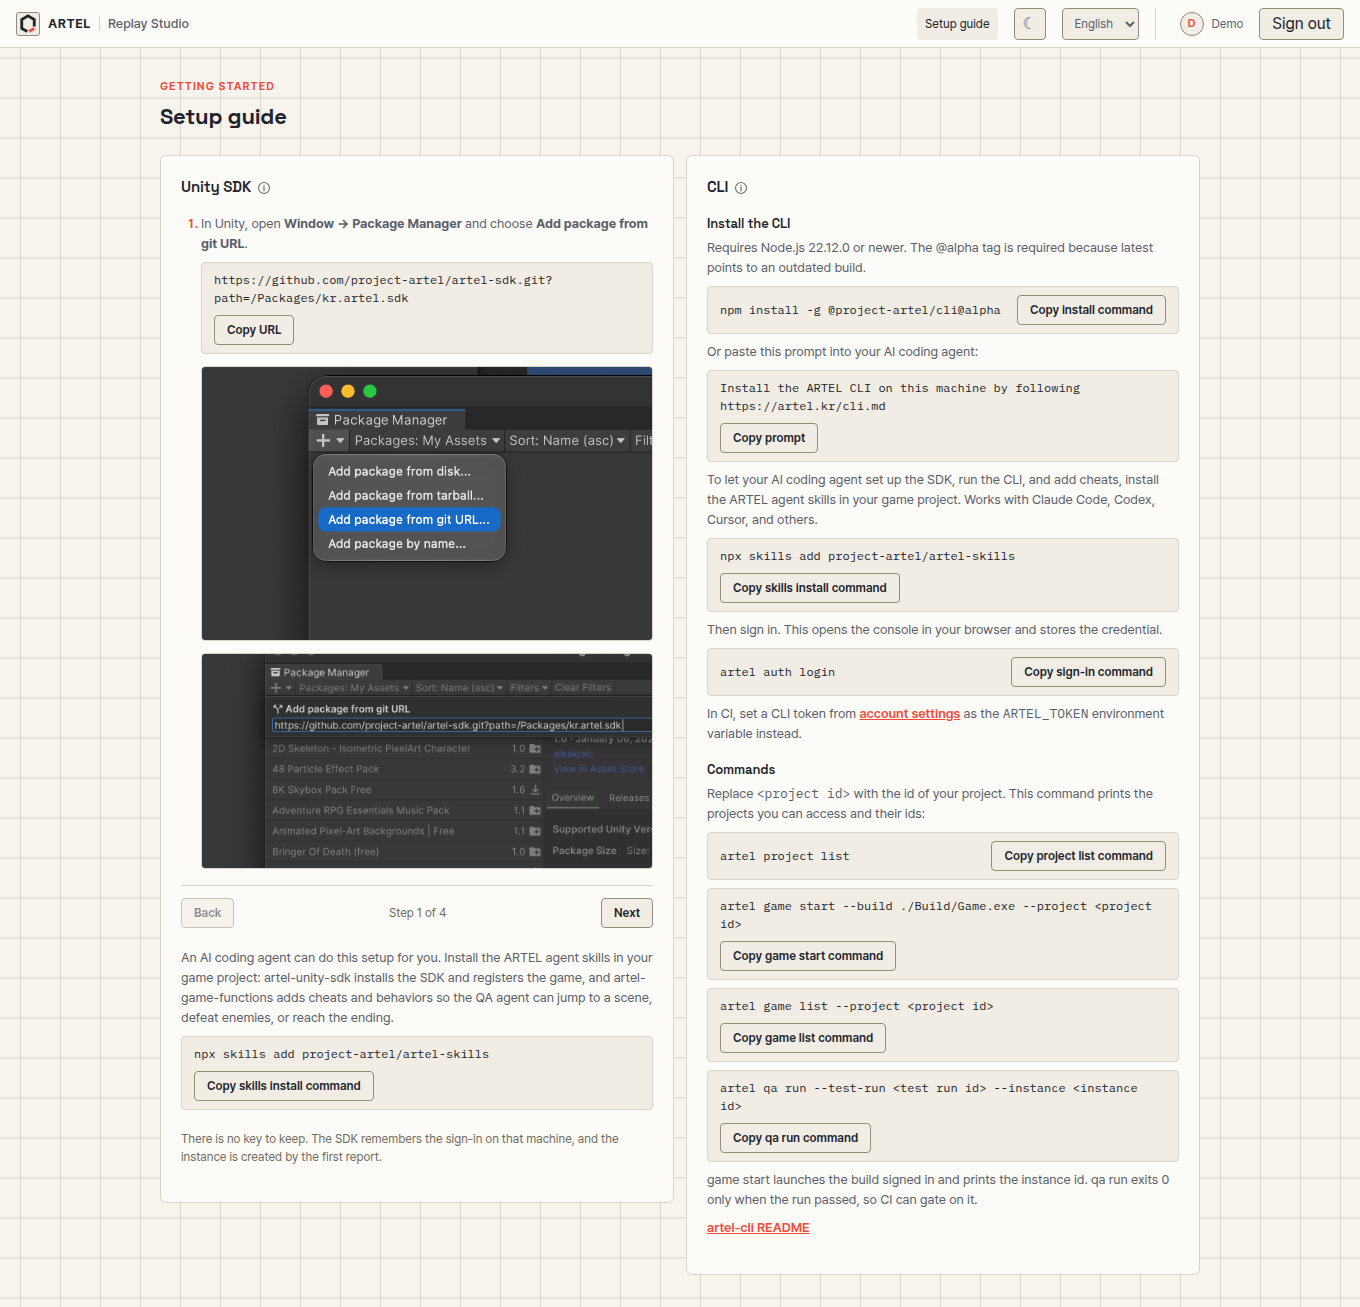
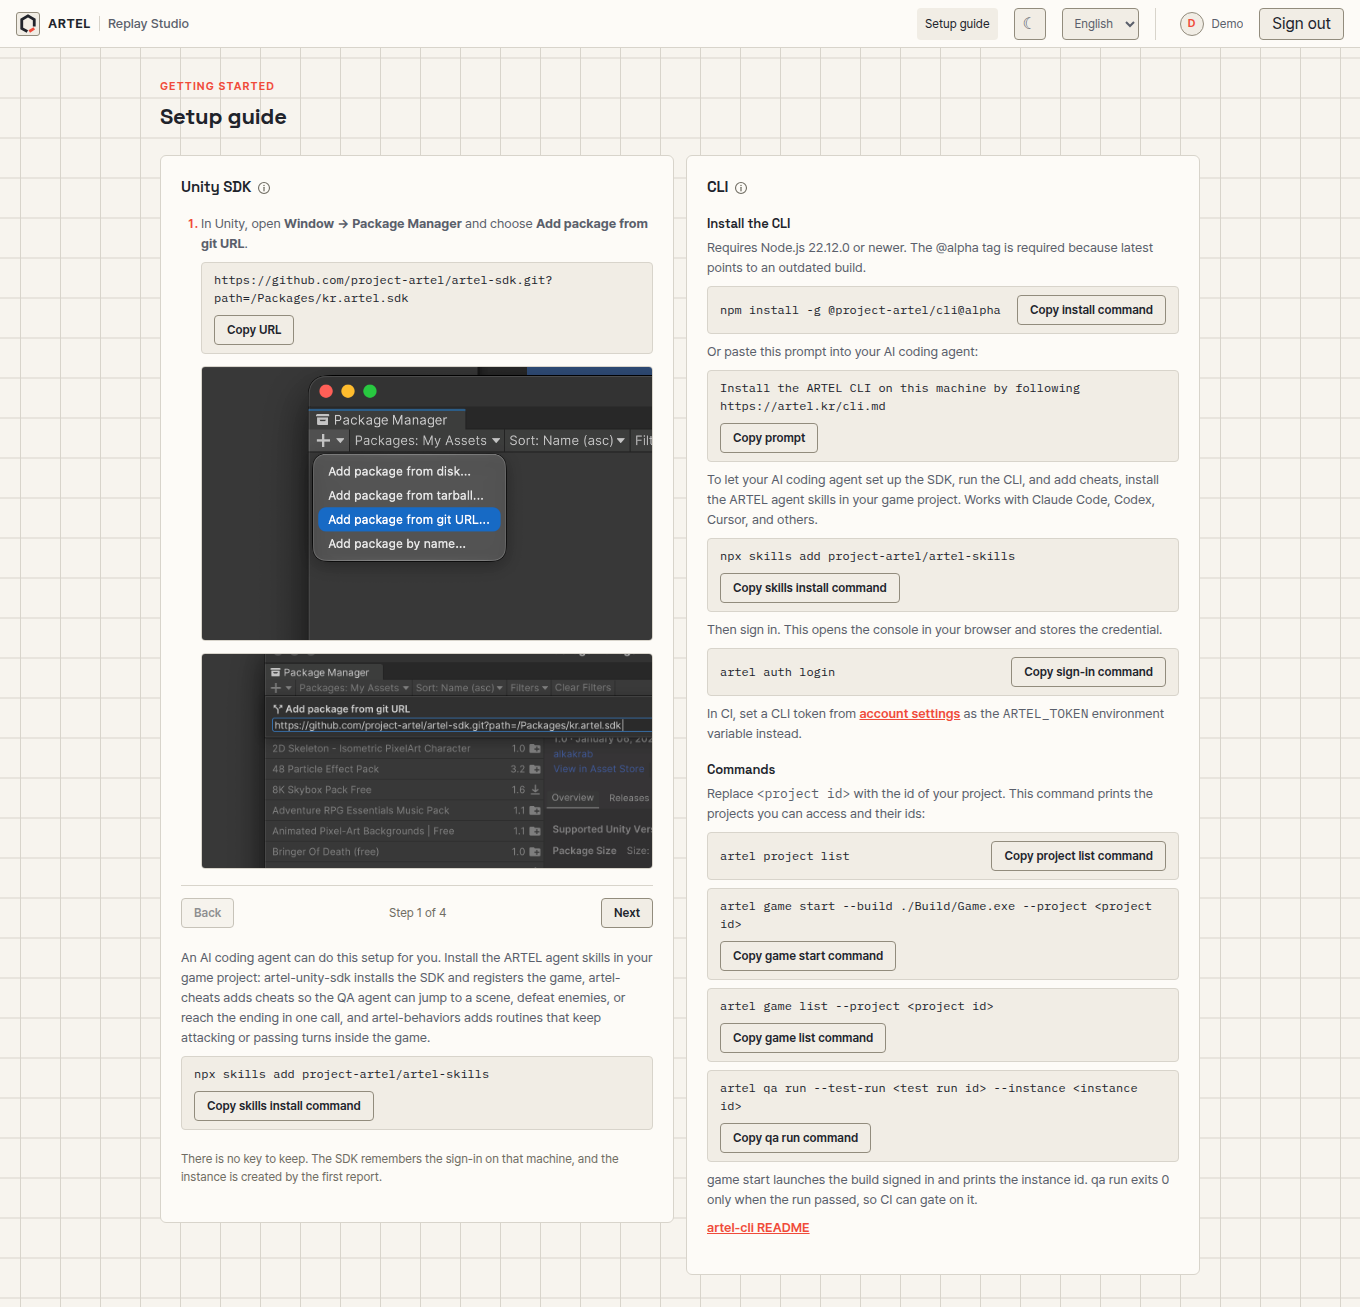
docs(setup): 설치 안내의 skills 이름을 artel-cheats, artel-behaviors 로 수정
artel-game-functions 가 artel-cheats 와 artel-behaviors 로 나뉘어 SDK 설치
안내 문구와 주석을 바꾸고, 설정 안내 화면 screen capture 2장을 다시 찍었다.

Jira: ARTEL-1094

Changed region(s): [[0.1235, 0.7345, 0.4941, 0.9487]]

diff --git a/src/i18n/messages/projects.ts b/src/i18n/messages/projects.ts
@@ -230,7 +230,7 @@ export const projectsEn = {
     shot4ProjectPickerAlt: 'The Artel SDK screen in the game listing projects to connect to.',
     shot4InstanceConnectedAlt: 'The game instance list in Artel showing the new instance as Connected.',
     skillsIntro:
-      'An AI coding agent can do this setup for you. Install the ARTEL agent skills in your game project: artel-unity-sdk installs the SDK and registers the game, and artel-game-functions adds cheats and behaviors so the QA agent can jump to a scene, defeat enemies, or reach the ending.',
+      'An AI coding agent can do this setup for you. Install the ARTEL agent skills in your game project: artel-unity-sdk installs the SDK and registers the game, artel-cheats adds cheats so the QA agent can jump to a scene, defeat enemies, or reach the ending in one call, and artel-behaviors adds routines that keep attacking or passing turns inside the game.',
     copySkills: 'Copy skills install command',
     skillsCopied: 'Skills install command copied.',
     note: 'There is no key to keep. The SDK remembers the sign-in on that machine, and the instance is created by the first report.',
@@ -661,7 +661,7 @@ export const projectsKo: Localized<typeof projectsEn> = {
     shot4ProjectPickerAlt: '게임 안의 Artel SDK 화면에 연결할 프로젝트 목록이 표시된 화면.',
     shot4InstanceConnectedAlt: 'Artel의 게임 인스턴스 목록에 새 인스턴스가 연결됨으로 표시된 화면.',
     skillsIntro:
-      'AI 코딩 에이전트가 이 설치를 대신할 수 있습니다. 게임 프로젝트에 ARTEL agent skills 를 설치하세요. artel-unity-sdk 는 SDK 설치와 게임 등록을, artel-game-functions 는 QA 에이전트가 장면 이동, 적 처치, 엔딩 확인을 할 수 있게 치트와 behavior 추가를 맡습니다.',
+      'AI 코딩 에이전트가 이 설치를 대신할 수 있습니다. 게임 프로젝트에 ARTEL agent skills 를 설치하세요. artel-unity-sdk 는 SDK 설치와 게임 등록을, artel-cheats 는 QA 에이전트가 씬 이동, 적 처치, 엔딩 확인을 한 번에 할 수 있게 하는 치트를, artel-behaviors 는 게임 안에서 계속 공격하거나 턴을 넘기는 behavior 를 추가합니다.',
     copySkills: 'skills 설치 명령 복사',
     skillsCopied: 'skills 설치 명령을 복사했습니다.',
     note: '따로 보관할 키는 없습니다. SDK가 해당 머신의 로그인을 기억하며, 인스턴스는 첫 보고 시점에 만들어집니다.',

diff --git a/src/projects/SdkInstallGuide.tsx b/src/projects/SdkInstallGuide.tsx
@@ -202,7 +202,7 @@ export function SdkInstallGuide() {
       </div>
 
       {/* Same command as the CLI install steps: one install covers the SDK
-          setup (`artel-unity-sdk`) and the cheats (`artel-game-functions`). */}
+          setup (`artel-unity-sdk`) and the cheats and behaviors (`artel-cheats`, `artel-behaviors`). */}
       <div className="cli-install-guide guide-skills">
         <p className="guide-copy">{t.projects.guide.skillsIntro}</p>
         <CliCopyLine
